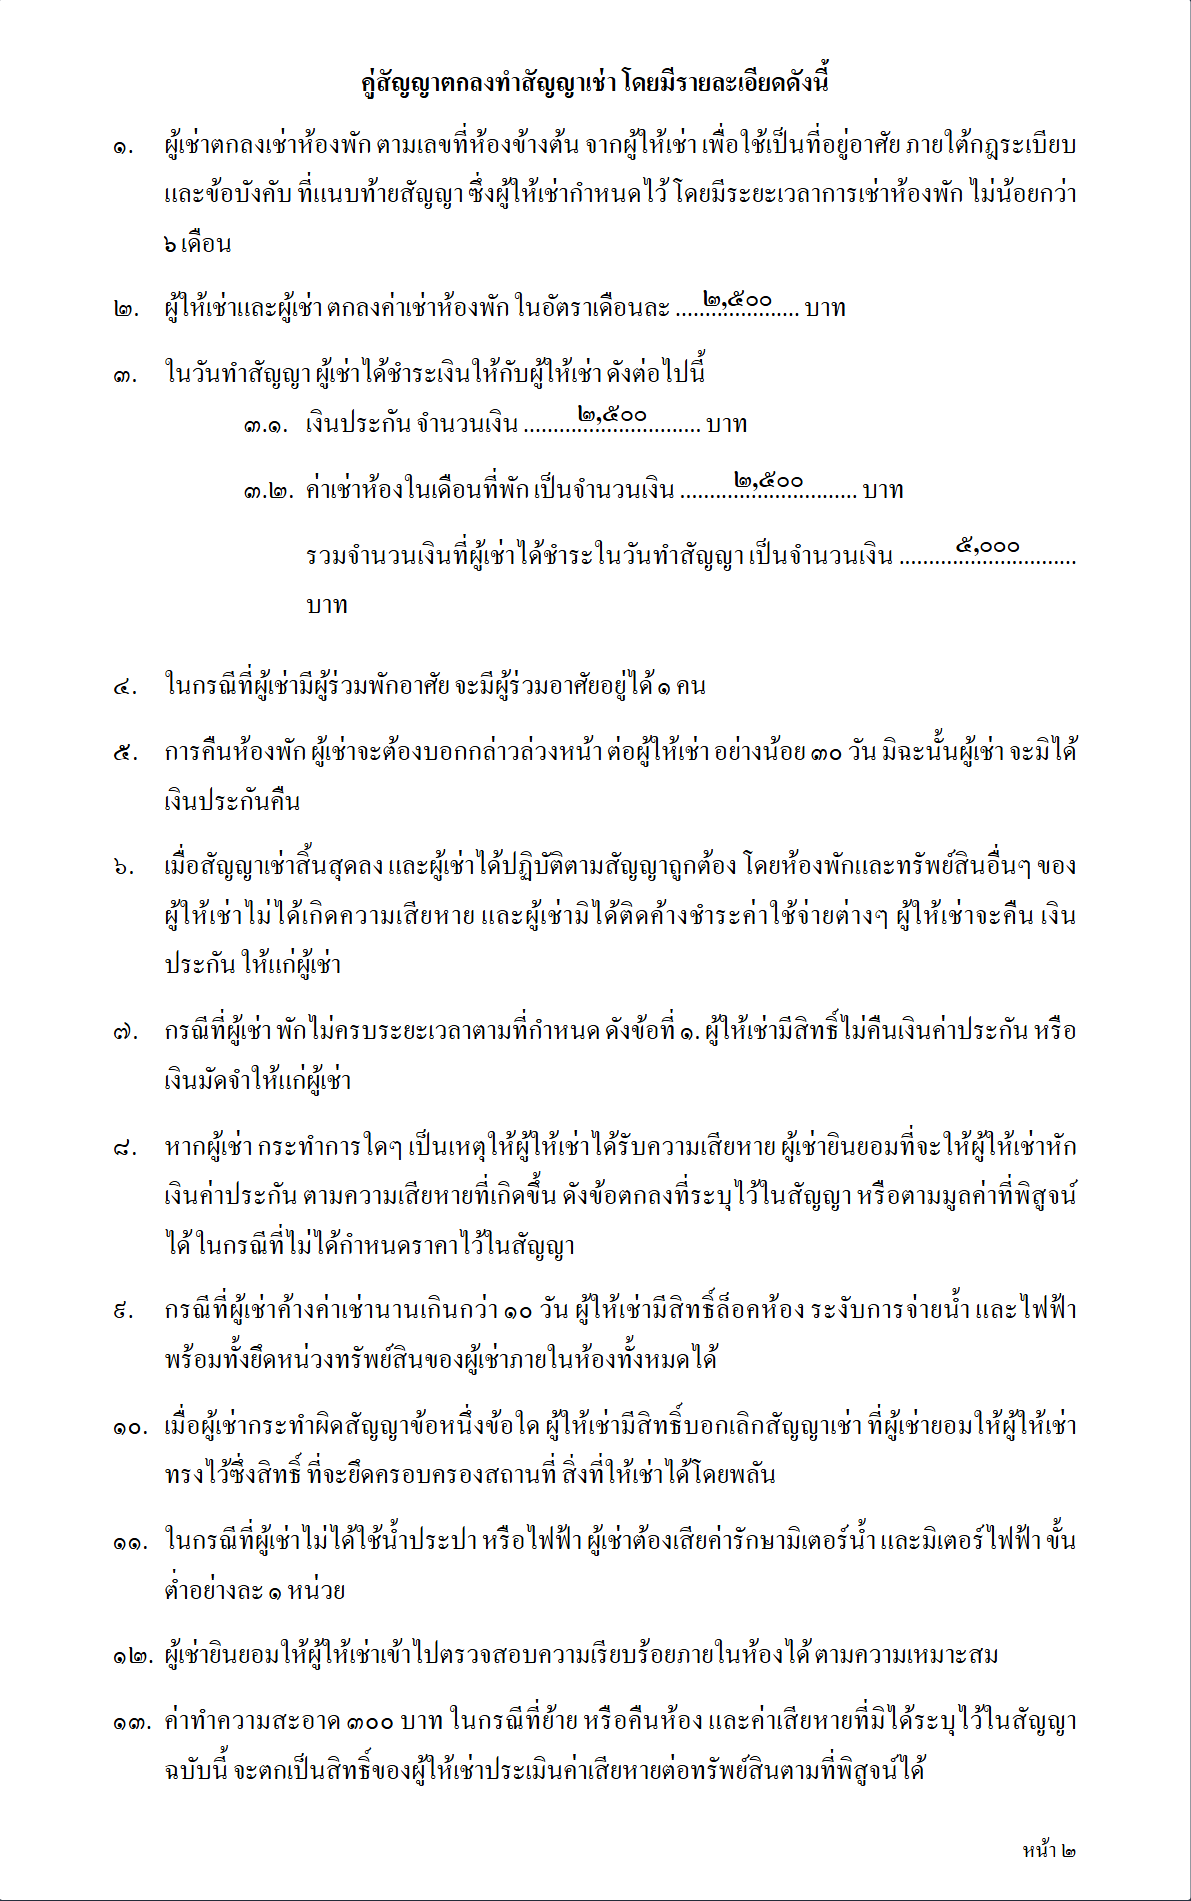
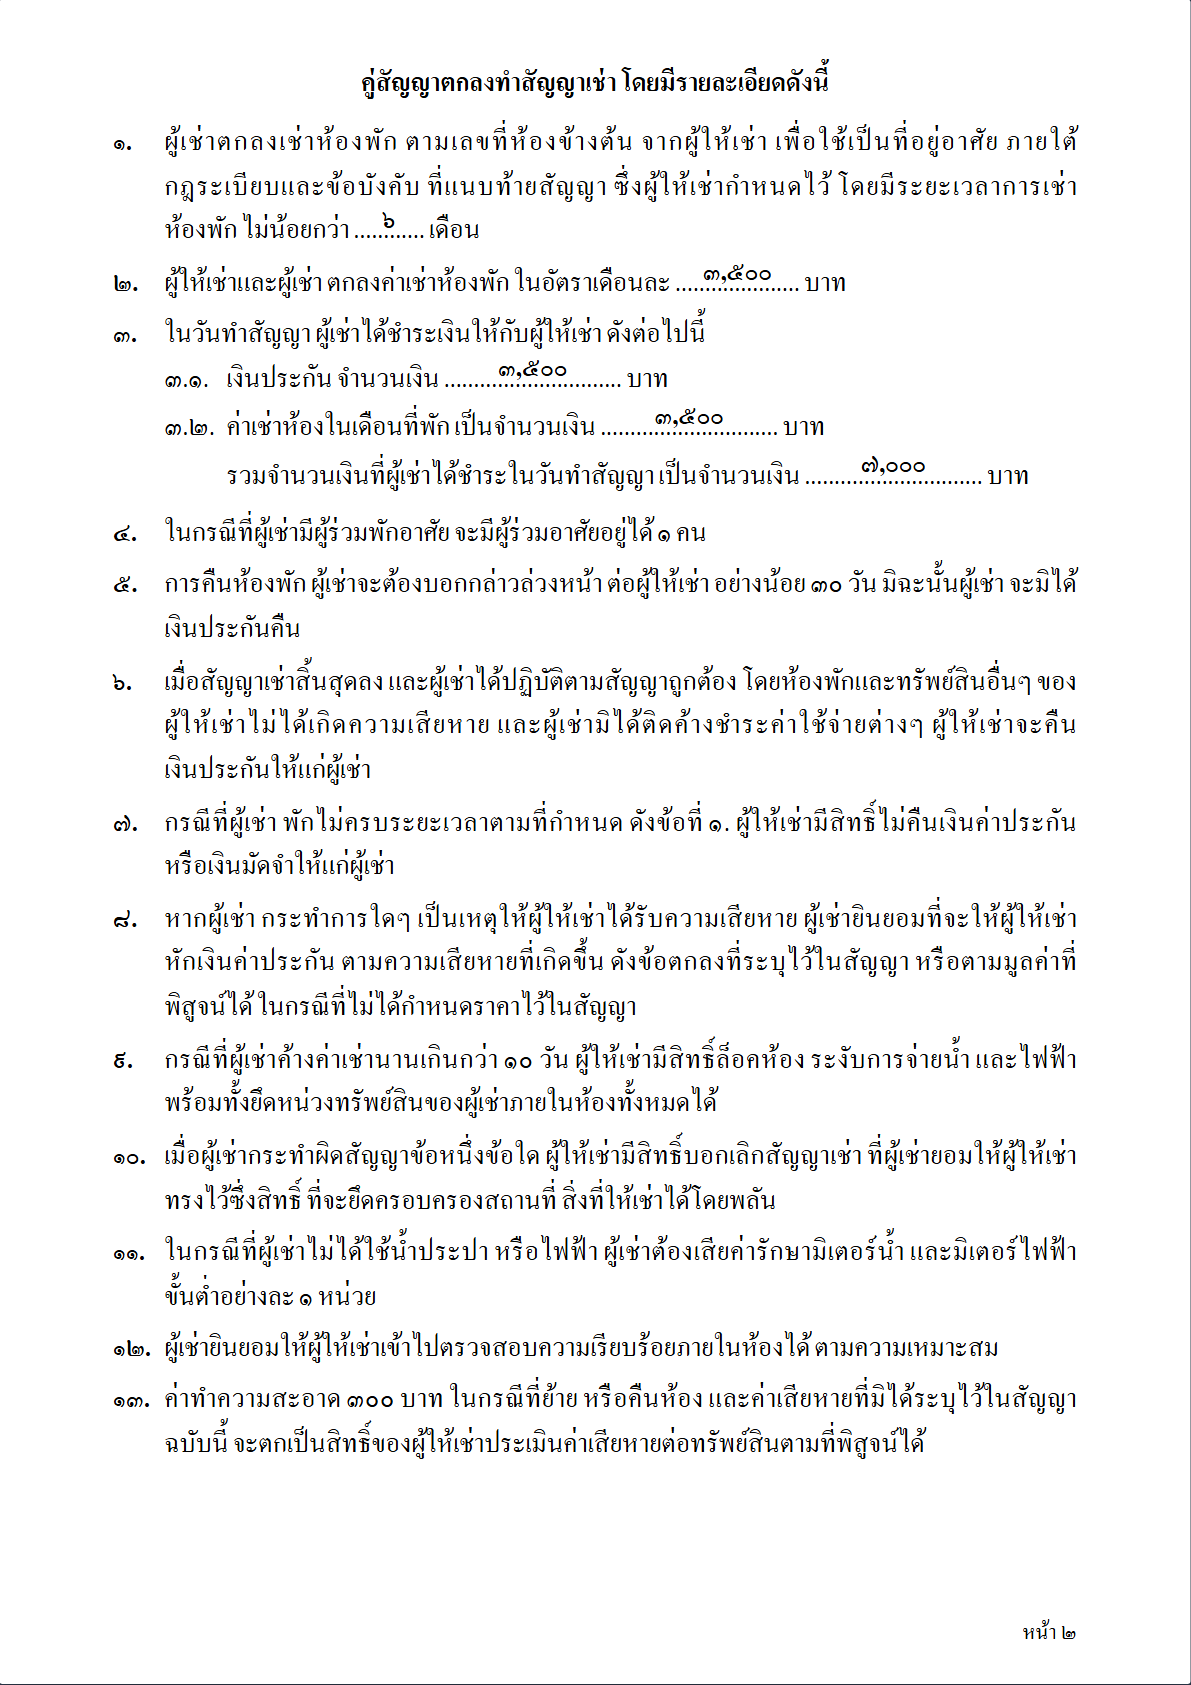
fix(lease-modal): align clause line wraps on page 2 to match Word original exactly

diff --git a/src/components/modals/LeaseAgreementModal.tsx b/src/components/modals/LeaseAgreementModal.tsx
@@ -687,9 +687,10 @@ export default function LeaseAgreementModal({
                     <div className={styles.clauseNum}>{num(1)}.</div>
                     <div className={styles.clauseText}>
                       ผู้เช่าตกลงเช่าห้องพัก ตามเลขที่ห้องข้างต้น จากผู้ให้เช่า
-                      เพื่อใช้เป็นที่อยู่อาศัย ภายใต้กฎระเบียบและข้อบังคับ
-                      ที่แนบท้ายสัญญา ซึ่งผู้ให้เช่ากำหนดไว้
-                      โดยมีระยะเวลาการเช่าห้องพัก ไม่น้อยกว่า{' '}
+                      เพื่อใช้เป็นที่อยู่อาศัย ภายใต้
+                      <span style={{ whiteSpace: 'nowrap' }}>กฎระเบียบและข้อบังคับ</span>{' '}
+                      ที่แนบท้ายสัญญา ซึ่งผู้ให้เช่ากำหนดไว้ โดยมีระยะเวลาการเช่า
+                      <span style={{ whiteSpace: 'nowrap' }}>ห้องพัก ไม่น้อยกว่า</span>{' '}
                       <BlankFill value={num(contractDurationMonths)} dots={12} />{' '}
                       เดือน
                     </div>
@@ -756,8 +757,8 @@ export default function LeaseAgreementModal({
                     <div className={styles.clauseText}>
                       เมื่อสัญญาเช่าสิ้นสุดลง และผู้เช่าได้ปฏิบัติตามสัญญาถูกต้อง
                       โดยห้องพักและทรัพย์สินอื่นๆ ของผู้ให้เช่าไม่ได้เกิดความเสียหาย
-                      และผู้เช่ามิได้ติดค้างชำระค่าใช้จ่ายต่างๆ ผู้ให้เช่าจะคืน
-                      เงินประกัน ให้แก่ผู้เช่า
+                      และผู้เช่ามิได้ติดค้างชำระค่าใช้จ่ายต่างๆ ผู้ให้เช่าจะคืน{' '}
+                      <span style={{ whiteSpace: 'nowrap' }}>เงินประกันให้แก่ผู้เช่า</span>
                     </div>
                   </div>
 
@@ -765,8 +766,8 @@ export default function LeaseAgreementModal({
                     <div className={styles.clauseNum}>{num(7)}.</div>
                     <div className={styles.clauseText}>
                       กรณีที่ผู้เช่า พักไม่ครบระยะเวลาตามที่กำหนด ดังข้อที่{' '}
-                      {num(1)}. ผู้ให้เช่ามีสิทธิ์ไม่คืนเงินค่าประกัน
-                      หรือเงินมัดจำให้แก่ผู้เช่า
+                      {num(1)}. ผู้ให้เช่ามีสิทธิ์ไม่คืนเงินค่าประกัน{' '}
+                      <span style={{ whiteSpace: 'nowrap' }}>หรือเงินมัดจำให้แก่ผู้เช่า</span>
                     </div>
                   </div>
 
@@ -774,9 +775,12 @@ export default function LeaseAgreementModal({
                     <div className={styles.clauseNum}>{num(8)}.</div>
                     <div className={styles.clauseText}>
                       หากผู้เช่า กระทำการใดๆ เป็นเหตุให้ผู้ให้เช่าได้รับความเสียหาย
-                      ผู้เช่ายินยอมที่จะให้ผู้ให้เช่าหักเงินค่าประกัน
-                      ตามความเสียหายที่เกิดขึ้น ดังข้อตกลงที่ระบุไว้ในสัญญา
-                      หรือตามมูลค่าที่พิสูจน์ได้ ในกรณีที่ไม่ได้กำหนดราคาไว้ในสัญญา
+                      ผู้เช่ายินยอมที่จะให้ผู้ให้เช่า{' '}
+                      <span style={{ whiteSpace: 'nowrap' }}>หักเงินค่าประกัน</span>{' '}
+                      ตามความเสียหายที่เกิดขึ้น ดังข้อตกลงที่ระบุไว้ในสัญญา{' '}
+                      <span style={{ whiteSpace: 'nowrap' }}>หรือตามมูลค่าที่</span>
+                      <span style={{ whiteSpace: 'nowrap' }}>พิสูจน์ได้</span>{' '}
+                      ในกรณีที่ไม่ได้กำหนดราคาไว้ในสัญญา
                     </div>
                   </div>
 
@@ -803,8 +807,8 @@ export default function LeaseAgreementModal({
                     <div className={styles.clauseNum}>{num(11)}.</div>
                     <div className={styles.clauseText}>
                       ในกรณีที่ผู้เช่าไม่ได้ใช้น้ำประปา หรือไฟฟ้า
-                      ผู้เช่าต้องเสียค่ารักษามิเตอร์น้ำ และมิเตอร์ไฟฟ้า
-                      ขั้นต่ำอย่างละ {num(1)} หน่วย
+                      ผู้เช่าต้องเสียค่ารักษามิเตอร์น้ำ และมิเตอร์ไฟฟ้า{' '}
+                      <span style={{ whiteSpace: 'nowrap' }}>ขั้นต่ำอย่างละ {num(1)} หน่วย</span>
                     </div>
                   </div>
 
